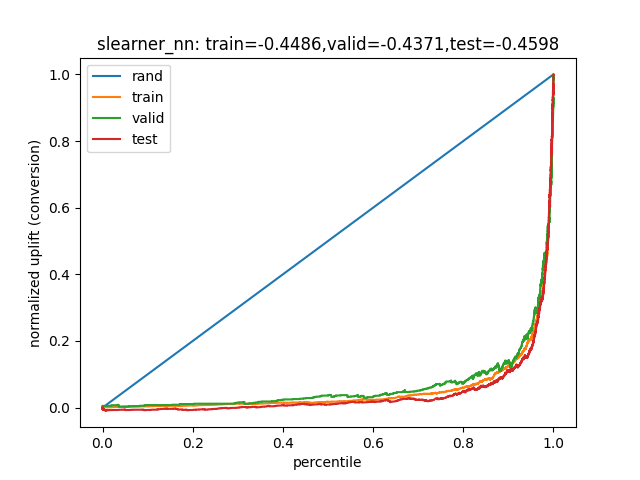
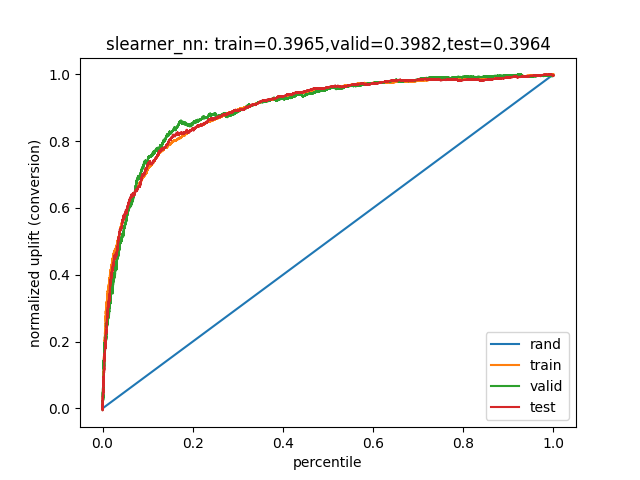
[feat] 增加sleaner nn

diff --git a/main_slearner_nn_hte.py b/main_slearner_nn_hte.py
@@ -11,7 +11,7 @@ from arvin_python.causal_tool.metric.qini import cal_qini_score
 from arvin_python.tf_nn_utils.keras_function_api_utils import *
 
 eval_flag = 0
-model_name = "slearner_nn"
+model_name = "slearner_nn_hte"
 
 # 数据集相关
 IS_TREAT_COL = "treatment"  # treatment
@@ -62,10 +62,10 @@ def make_ds_from_df(
 #     )
 
 
-with open("tf_nn_conf/slearner_nn/feature_conf_raw.json") as f:
+with open(f"tf_nn_conf/{model_name}/feature_conf_raw.json") as f:
     feature_conf = json.load(f)["features"]
 
-with open("tf_nn_conf/slearner_nn/model_conf.json") as f:
+with open(f"tf_nn_conf/{model_name}/model_conf.json") as f:
     model_conf = json.load(f)
 
 feature_columns = generate_feature_columns(feature_conf)
@@ -76,6 +76,8 @@ block_layer_output = generate_feature_block_layer_output(
 
 # y = main_net_output + main_net_tau * trt = f(f0,...f11) + g(f0,...,f11) * trt
 tenser_in_main_net = block_layer_output["main_net"]
+tensor_in_is_trt = block_layer_output["is_trt"]
+
 for i, num in enumerate(HIDDEN_LAYER_NUM):
     tenser_in_main_net = keras.layers.Dense(
         units=num,
@@ -87,8 +89,9 @@ for i, num in enumerate(HIDDEN_LAYER_NUM):
     tenser_in_main_net = keras.layers.LeakyReLU(alpha=0.1)(tenser_in_main_net)  # 如果想使用leaky_relu，需要当成新layer使用
     tenser_in_main_net = keras.layers.Dropout(rate=0.2)(tenser_in_main_net)
 main_net_output = keras.layers.Dense(1, name="main_net_output")(tenser_in_main_net)
+main_net_tau = keras.layers.Dense(1, name="main_net_tau")(tenser_in_main_net)
 # keras.layers.Lambda(lambda x: x[0] + x[1] * x[2])([main_net_output, main_net_tau, tensor_in_is_trt])
-logit = main_net_output
+logit = main_net_output + main_net_tau * tensor_in_is_trt
 # keras.Model的outputs中的名字需要跟y中的名字一致
 prob = keras.layers.Lambda(function=tf.keras.activations.sigmoid, name=LABEL_COL)(logit)
 model = keras.Model(inputs=[v for v in feature_inputs.values()], outputs=prob)

diff --git a/arvin_python/tf_nn_utils/keras_function_api_utils.py b/arvin_python/tf_nn_utils/keras_function_api_utils.py
@@ -17,14 +17,17 @@ def _parse_normalize_fn(nf, param):
     if nf == "z_score":
         def _z_score(x):
             return (x - param["mean"]) / param["std"]
+
         return _z_score
     elif nf == "square":
         def _square(x):
             return x ** 2
+
         return _square
     else:
         def _fn(x):
             return x
+
         return _fn  # 直接 return None 会报错
 
 
@@ -49,6 +52,17 @@ def generate_feature_columns(feature_conf: dict = None):
             feature_columns[_feat_conf["name"]] = tf.feature_column.embedding_column(
                 categorical_column=tf.feature_column.categorical_column_with_hash_bucket(
                     key=_feat_conf["name"], hash_bucket_size=_feat_conf["hash_bucket_size"]
+                ), dimension=_feat_conf["embedding_size"]
+            )
+        elif _feat_conf["feature_type"] == "embedding" \
+                and "input_size" in _feat_conf and _feat_conf["input_size"] == 1 \
+                and "bucket_boundaries" not in _feat_conf \
+                and "hash_bucket_size" not in _feat_conf \
+                and "max_index_num" in _feat_conf \
+                and "embedding_size" in _feat_conf:
+            feature_columns[_feat_conf["name"]] = tf.feature_column.embedding_column(
+                categorical_column=tf.feature_column.categorical_column_with_identity(
+                    key=_feat_conf["name"], num_buckets=_feat_conf["max_index_num"]
                 ), dimension=_feat_conf["embedding_size"]
             )
         elif _feat_conf["feature_type"] == "raw":
